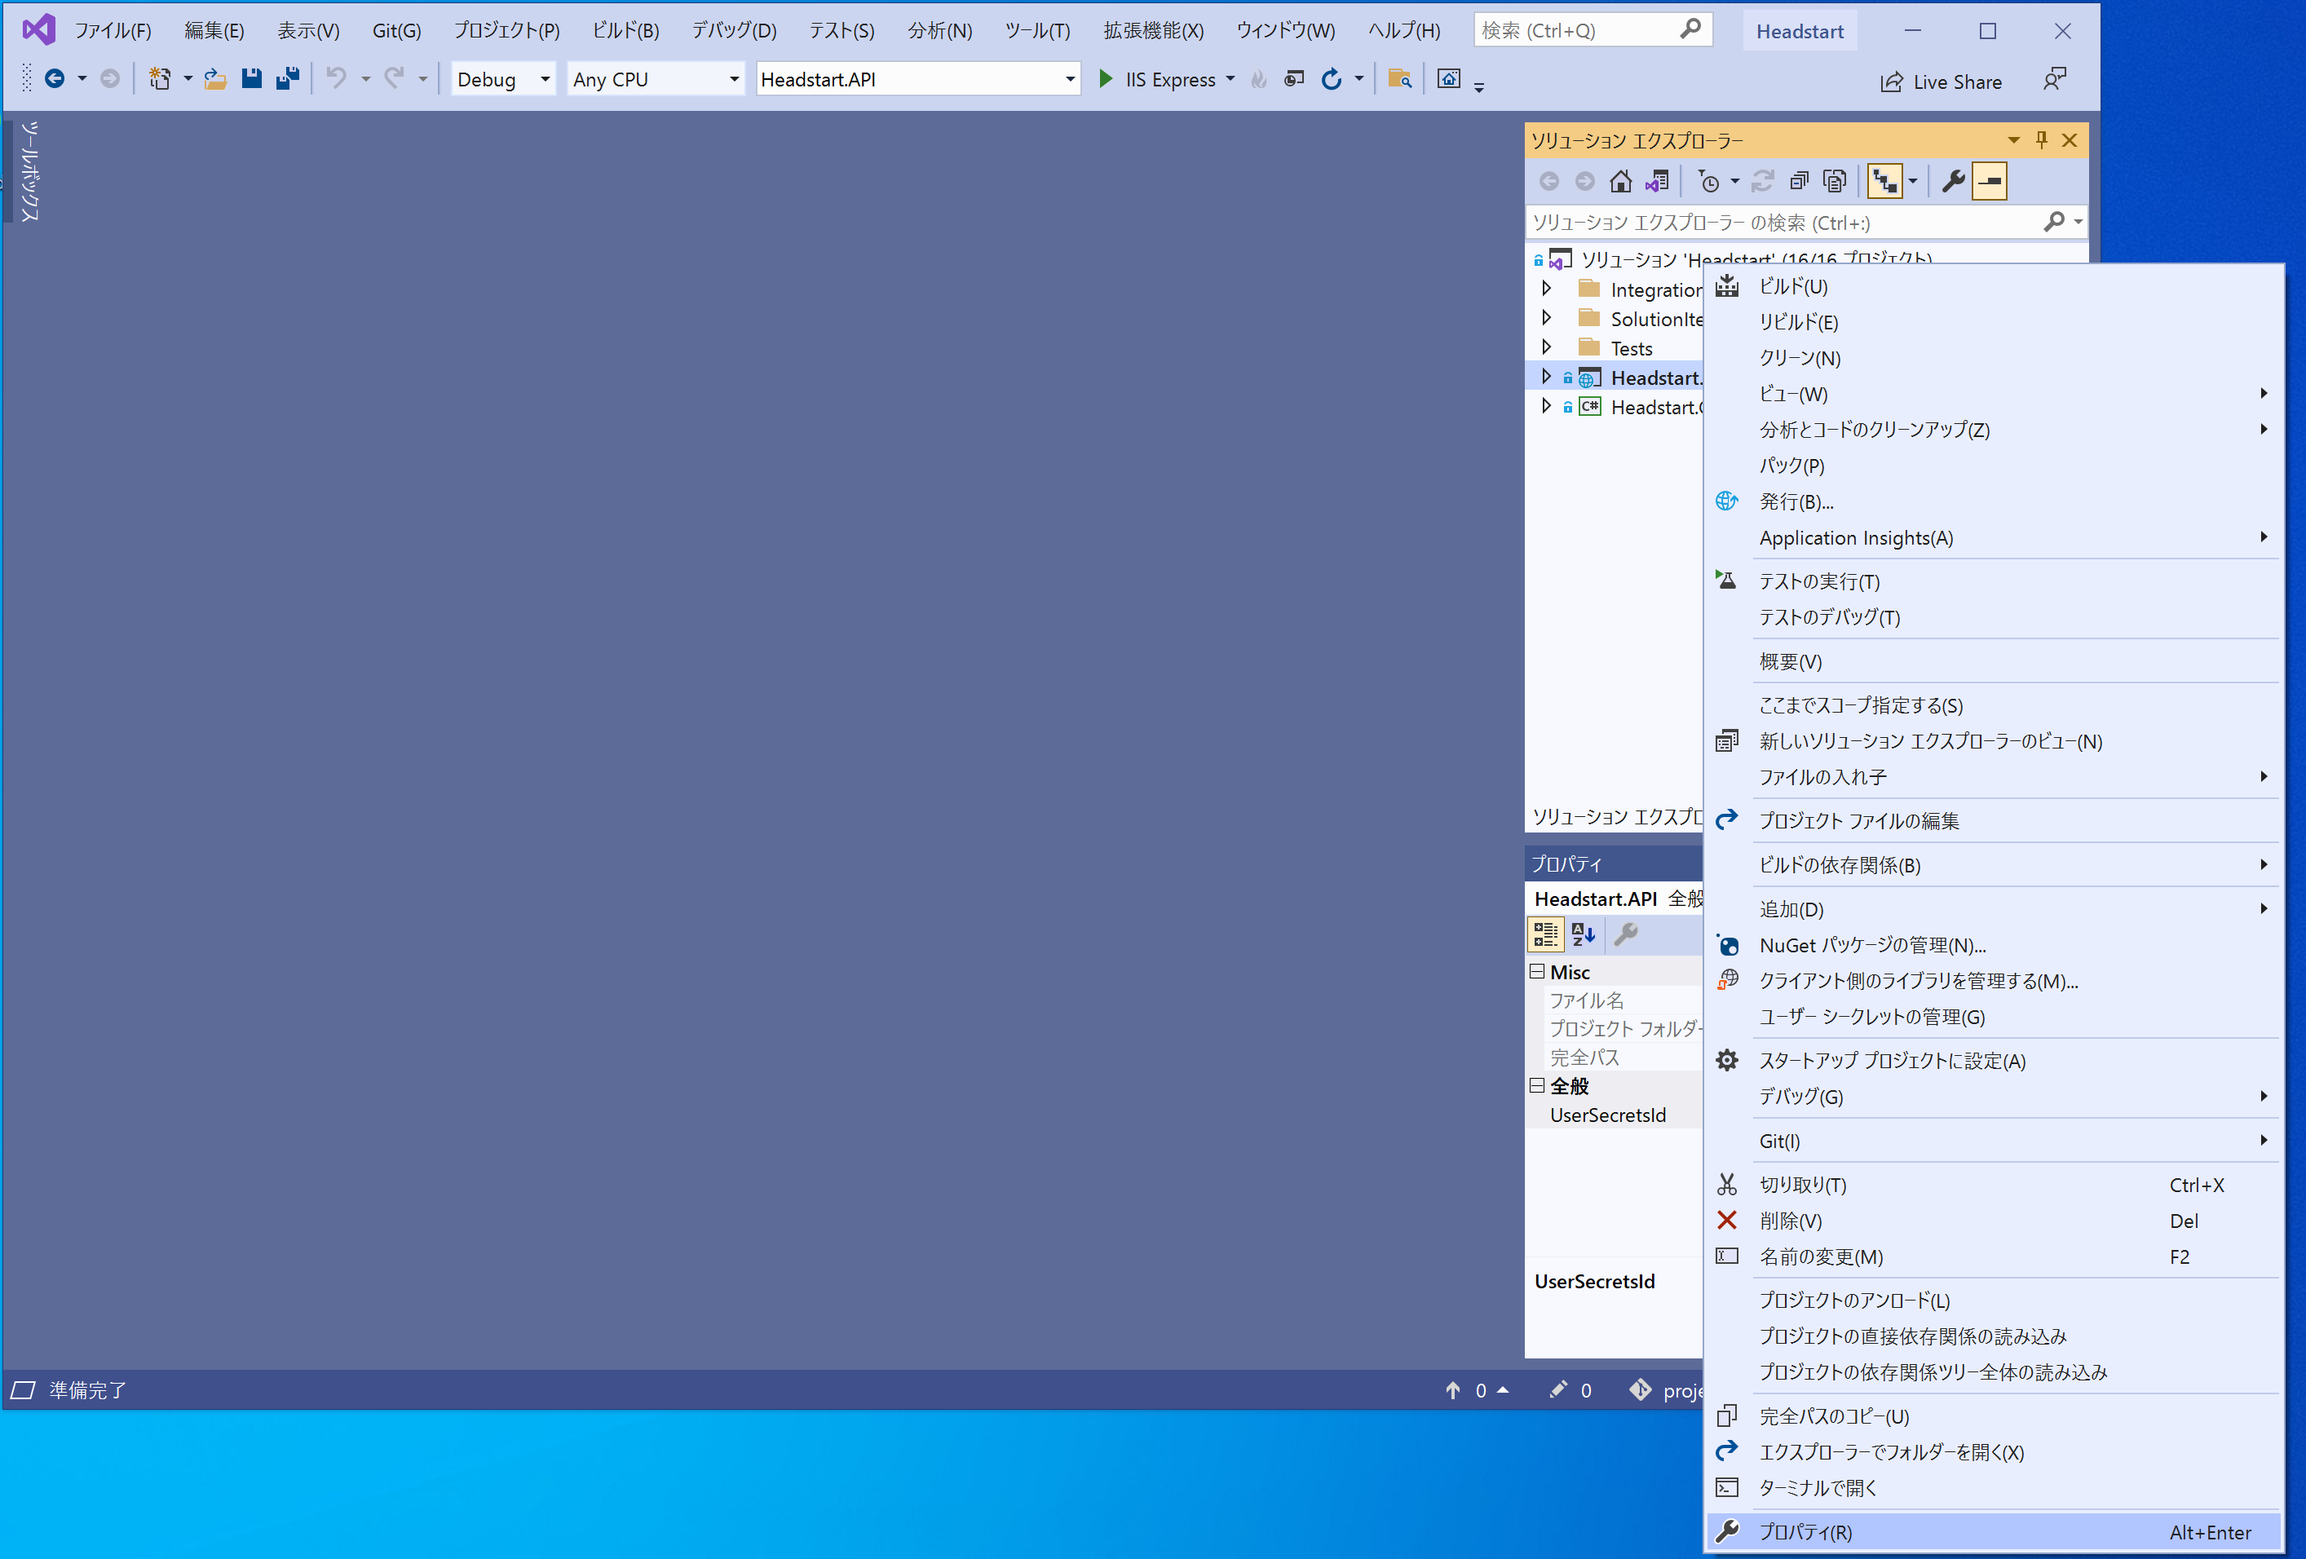
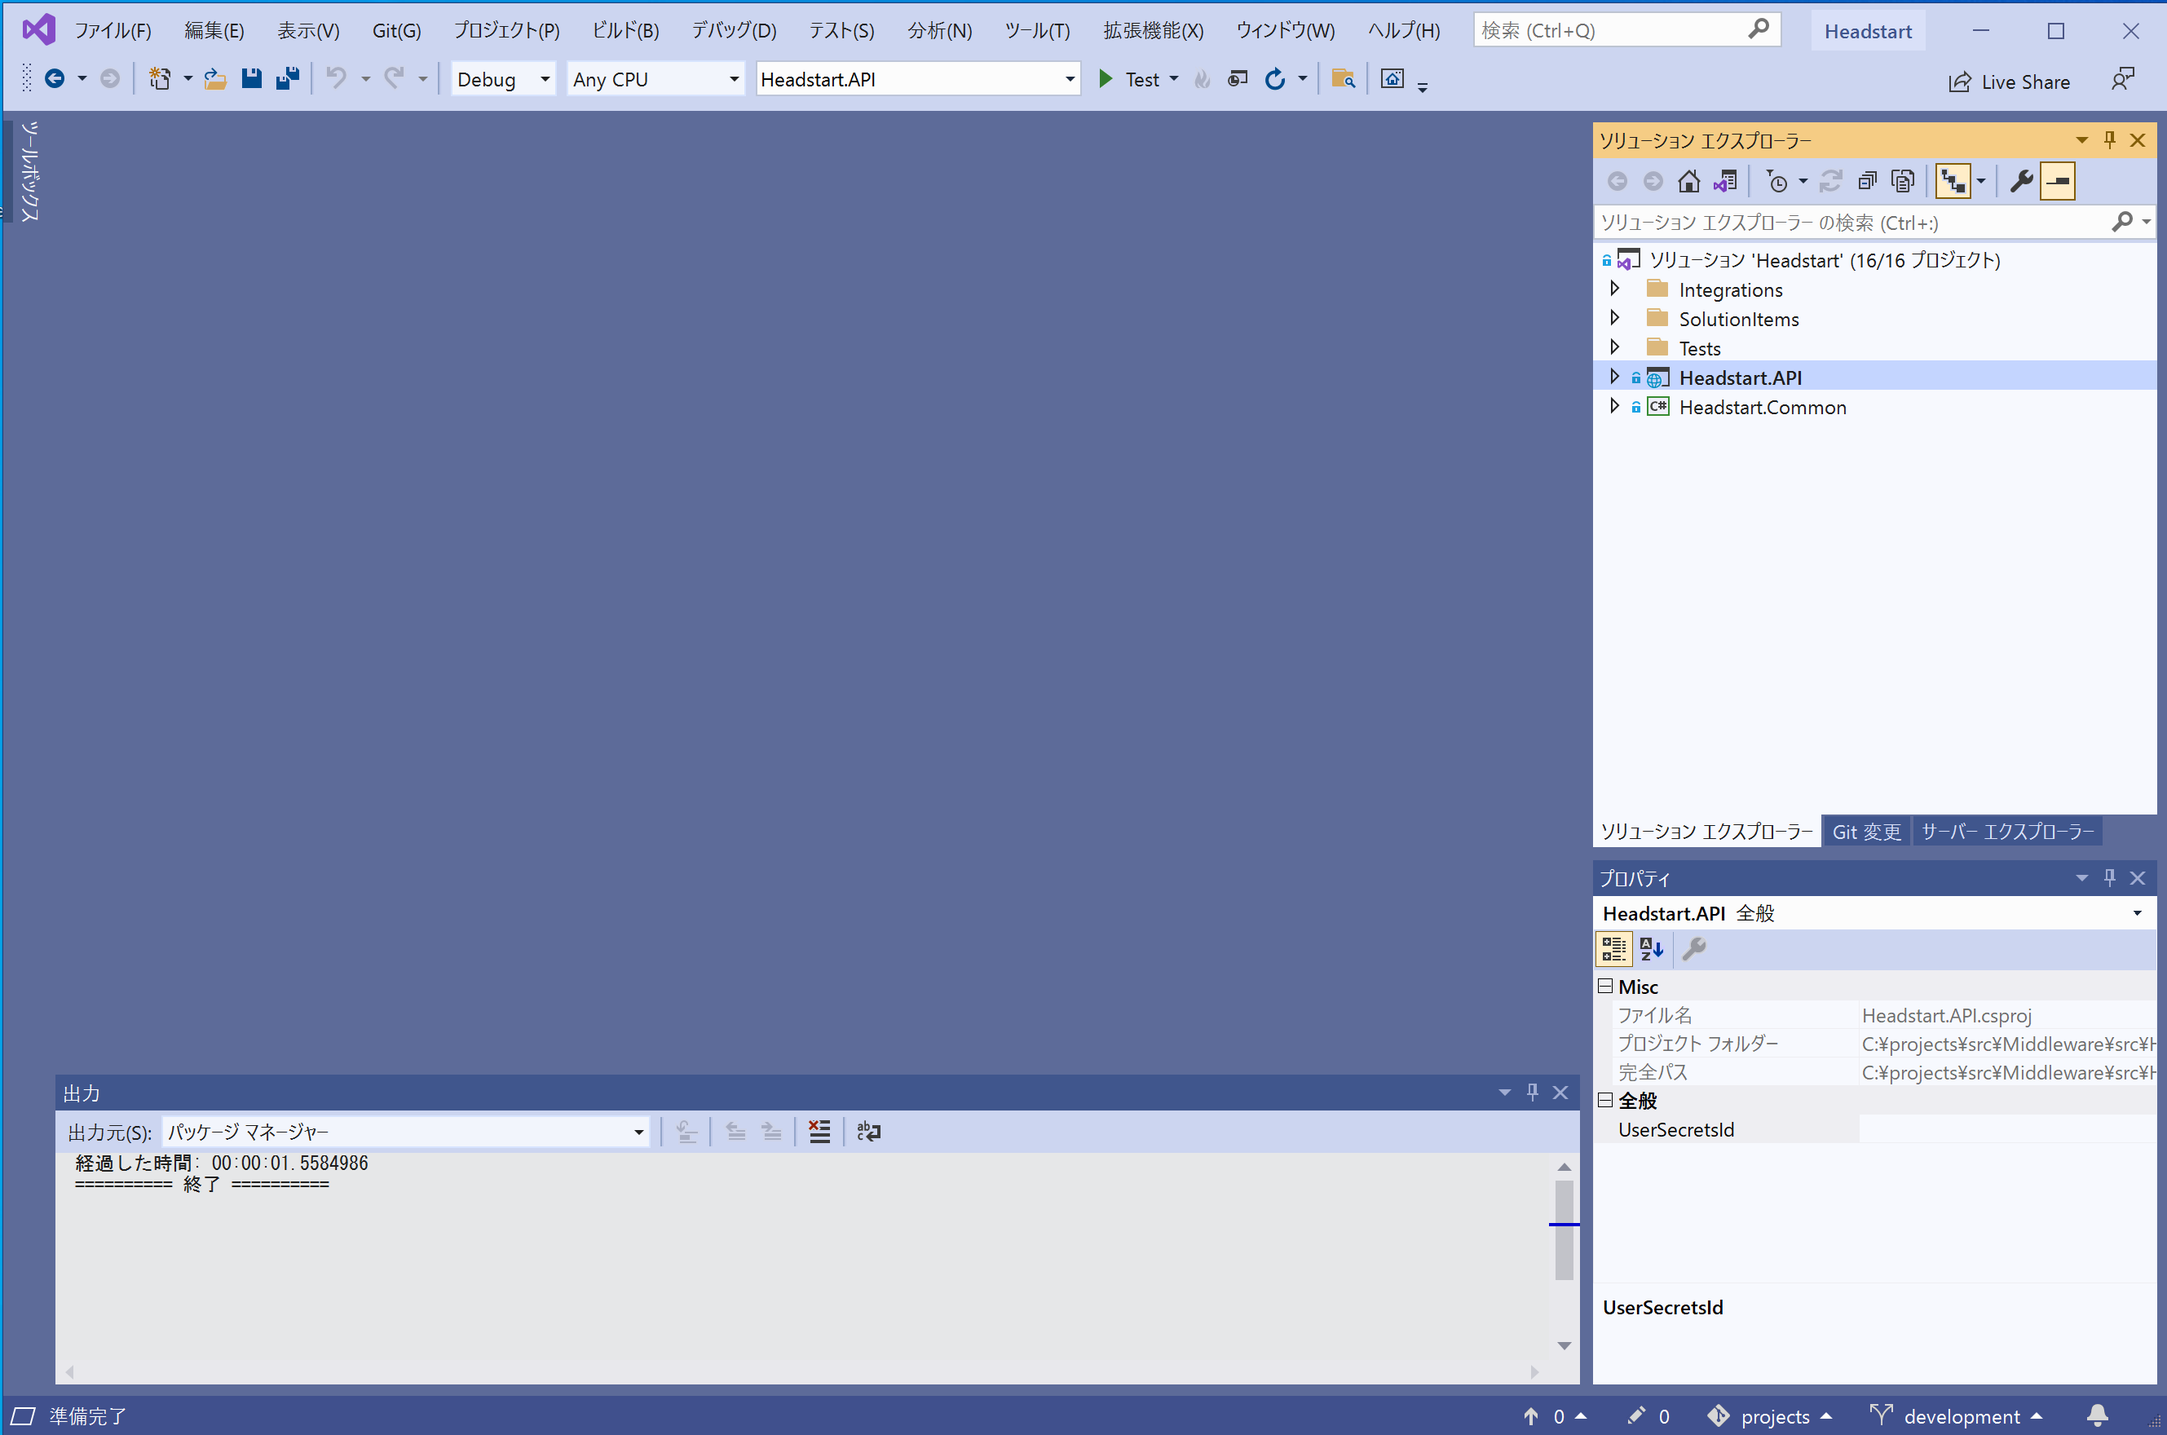
middleware run

diff --git a/data/blog/2021/09/03/order-cloud-setup-part-3.md b/data/blog/2021/09/03/order-cloud-setup-part-3.md
@@ -3,41 +3,57 @@ title: Sitecore OrderCloud HeadStart - Part 3 展開
 date: '2021-09-03'
 tags: ['OrderCloud','Demo']
 draft: false
-summary: 環境の準備、設定が完了すれば、続いて展開をしていく流れとなります。Sitecore OrderCloud のサンプルサイト、HeadStart を動かしていきましょう。
+summary: これまで２回で環境の準備、設定と進めていきました。今回から、すでにダウンロード済みのソースコードを利用して環境に展開をしていきます。
 images: ['/static/images/2021/09/lang08.png']
 ---
 
-環境の準備、設定が完了すれば、続いて展開をしていく流れとなります。Sitecore OrderCloud のサンプルサイト、HeadStart を動かしていきましょう。
+これまで２回で環境の準備、設定と進めていきました。今回から、すでにダウンロード済みのソースコードを利用して環境に展開をしていきます。
 
 ## Middleware をローカルで実行する
 
-プロパティ
+Visual Studio で手元にあるプロジェクトを開いてください。画面のようになっていれば、準備が完了です。
 
 ![OrderCloud](/static/images/2021/09/ordercloud21.png) 
 
+今回は設定に関してすべて Azure の App Configuration にアップロードをしたので、その値を利用して動かしたいと思います。そこで、Visual Studio のプロファイルを追加して、設定を読み込みするような手順を進めます。
 
-![OrderCloud](/static/images/2021/09/ordercloud22.png) 
+1. ソリューションエクスプローラーにて、 **Headstart.API** のプロパティを開く
+2. デバッグを選択する
+3. プロファイルを追加する
+4. 起動方法はプロジェクトを選択
+5. 環境変数として *APP_CONFIG_CONNECTION* を追加します。
 
+![OrderCloud](/static/images/2021/09/ordercloud22.gif) 
+
+環境変数の値としては、Azure Portal から App Configuration のリソースを開き、設定 - アクセスキー を選択したあと接続文字列をコピーして取得してください。
 
 ![OrderCloud](/static/images/2021/09/ordercloud23.png) 
 
+続いてソリューションのビルドを実行します。
+
 ![OrderCloud](/static/images/2021/09/ordercloud24.png) 
+
+ビルドエラーが出ないことを確認して、実行をします。Visual Studio のメニューにある ▷ Test （先ほど作成したプロファイル）を指定して実行をします。
 
 ![OrderCloud](/static/images/2021/09/ordercloud25.png) 
 
+しばらくするとコンソールが立ち上がり、プログラムが動いている状況の確認ができます。
+
 ![OrderCloud](/static/images/2021/09/ordercloud26.png) 
+
+1 つめの URL にアクセスをすると、以下のように Headstart Middleware API の画面が表示されます。
 
 ![OrderCloud](/static/images/2021/09/ordercloud27.png) 
 
-## Postman
+## OrderCloud データのシード
 
-/seed
+上記の画面が起動している状況で、Postman を利用して初期化用のデータを投入していきます。Postman がアクセスする URL はローカルのサーバーに対して /seed のパスを指定して Post を実行することになります。その際のサンプルのデータは以下のようになります。
 
 ```json
 {
   "PortalUsername": "",
   "PortalPassword": "",
-  "InitialAdminUsername ": "",
+  "InitialAdminUsername": "",
   "InitialAdminPassword": "",
   "MiddlewareBaseUrl": "",
   "MarketplaceID": "",
@@ -50,5 +66,35 @@ images: ['/static/images/2021/09/lang08.png']
   }
 }
 ```
+
+それぞれには以下の項目を設定します。下記のMarketplaceID はすでに Part 1 の最後に作成していると思いますが、まだであれば最初のステップを確認しながら作成をします。
+
+| 項目 | 入力 | 例 |
+|---|---|---|
+| PortalUsername | ordercloud.io のログイン名 | sitecoredemo |
+| PortalPassword | ordercloud.io のパスワード | Hell0wor!d |
+| InitialAdminUsername | 初期管理者のユーザー名 | admin |
+| InitialAdminPassword | 初期管理者のパスワード | p@ssw0rd! |
+| MiddlewareBaseUrl | Middleware の URL | https://localhost:5001/ |
+| MarketplaceID | ordercloud.io で作成している ID |  |
+| Environment | sandbox |  |
+| WebhookHashKey | WebHook のキー | demo-headstart |
+| ConnectionString | Blob ストレージの接続文字列 |  |
+
+Postman の画面では以下の通りです（項目はいくつか表示していません）
+
+![OrderCloud](/static/images/2021/09/ordercloud28.png) 
+
+実行して以下のようなデータを取得できると、必要な ClientID などを取得できる形となります。
+
+![OrderCloud](/static/images/2021/09/ordercloud29.png) 
+
+
+
+
+
+## Buyer Storefront のビルド
+
+
 
 https://himadritechblog.wordpress.com/2021/05/04/exploration-of-four51-ordercloud-its-architecture-and-headstart-setup/#setting-up-headstart
